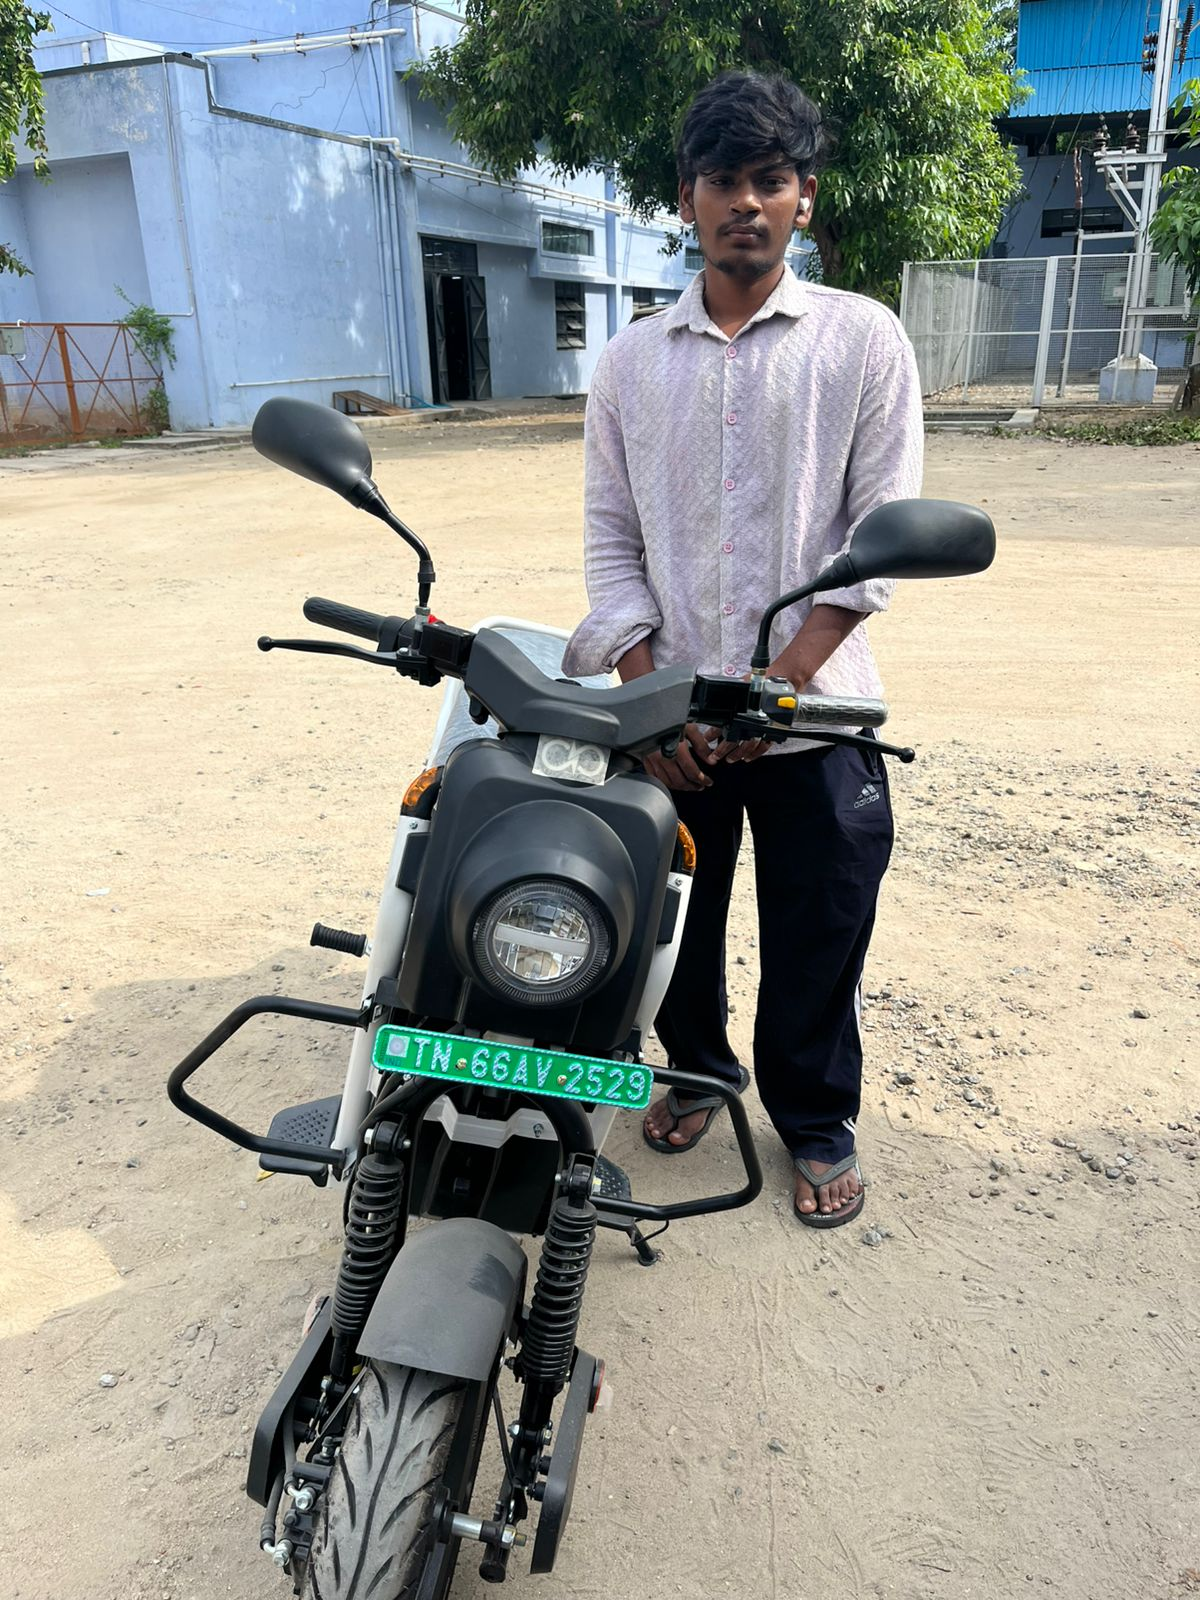
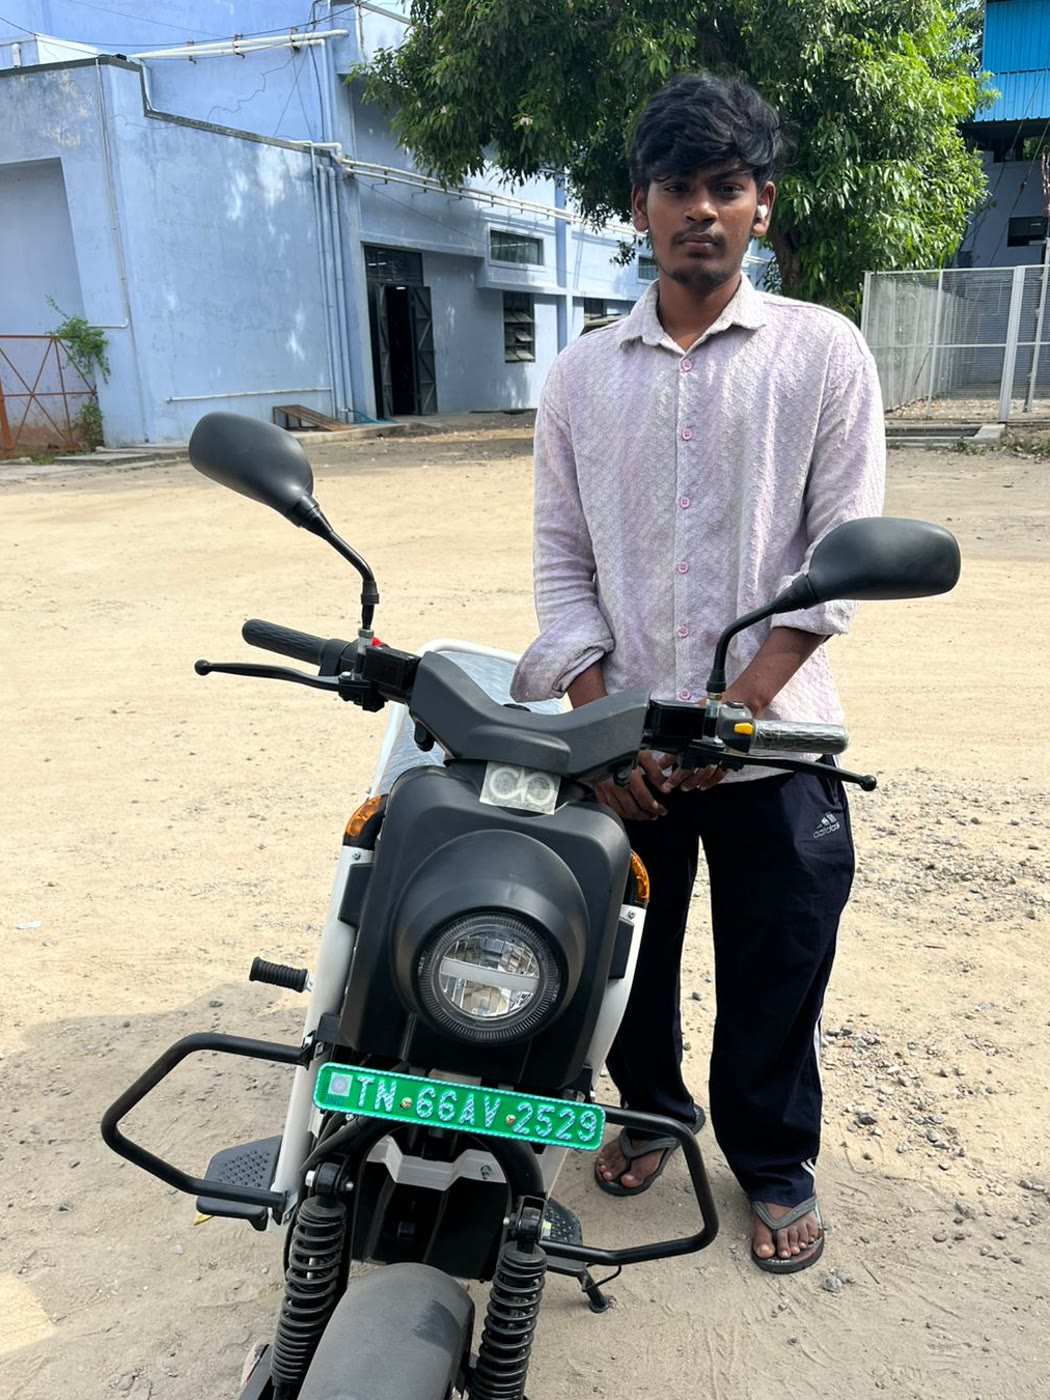
Reframe the handover photos and run them in black and white
Four phone photographs taken in different light, at different
distances, did not read as a set. Two changes.

Framing: each is recropped to the same 3:4 at 1050x1400, with the
rider's head at 8% from the top, the subject centred, and the dead
ground at the bottom and sides trimmed. The bike's headlight and
number plate stay in frame in all four.

The second photograph had the rider's crown cut off in the original,
which no crop could fix, so its background was extended upward and
the frame recomposed from there. Only sky, wall and foliage were
generated; the rider and the bike are untouched.

Black and white is applied in CSS rather than baked into the files,
so the colour originals stay intact and the treatment is one line to
undo.

diff --git a/styles.css b/styles.css
@@ -2537,7 +2537,8 @@ main > section.gr-sec::before, main > section.gr-sec::after { content: none !imp
 .handover-sec { padding: 96px 0 100px; }
 .handovers { list-style: none; margin: 40px 0 0; padding: 0; display: grid; grid-template-columns: repeat(4, 1fr); gap: 18px; }
 .handovers li { position: relative; overflow: hidden; border-radius: 4px; aspect-ratio: 3 / 4; background: #efe9e1; box-shadow: 0 18px 40px -28px rgba(7,6,11,.45); }
-.handovers img { width: 100%; height: 100%; object-fit: cover; display: block; transition: transform 1s var(--expo); }
+/* black and white, so four phone photographs taken in different light read as one set */
+.handovers img { width: 100%; height: 100%; object-fit: cover; display: block; filter: grayscale(1) contrast(1.04); transition: transform 1s var(--expo); }
 .handovers li::after { content: ""; position: absolute; left: 0; bottom: 0; width: 100%; height: 2px; background: linear-gradient(90deg, var(--orange), var(--teal)); transform: scaleX(.16); transform-origin: left; transition: transform .7s var(--expo); }
 @media (hover: hover) {
   .handovers li:hover img { transform: scale(1.03); }
